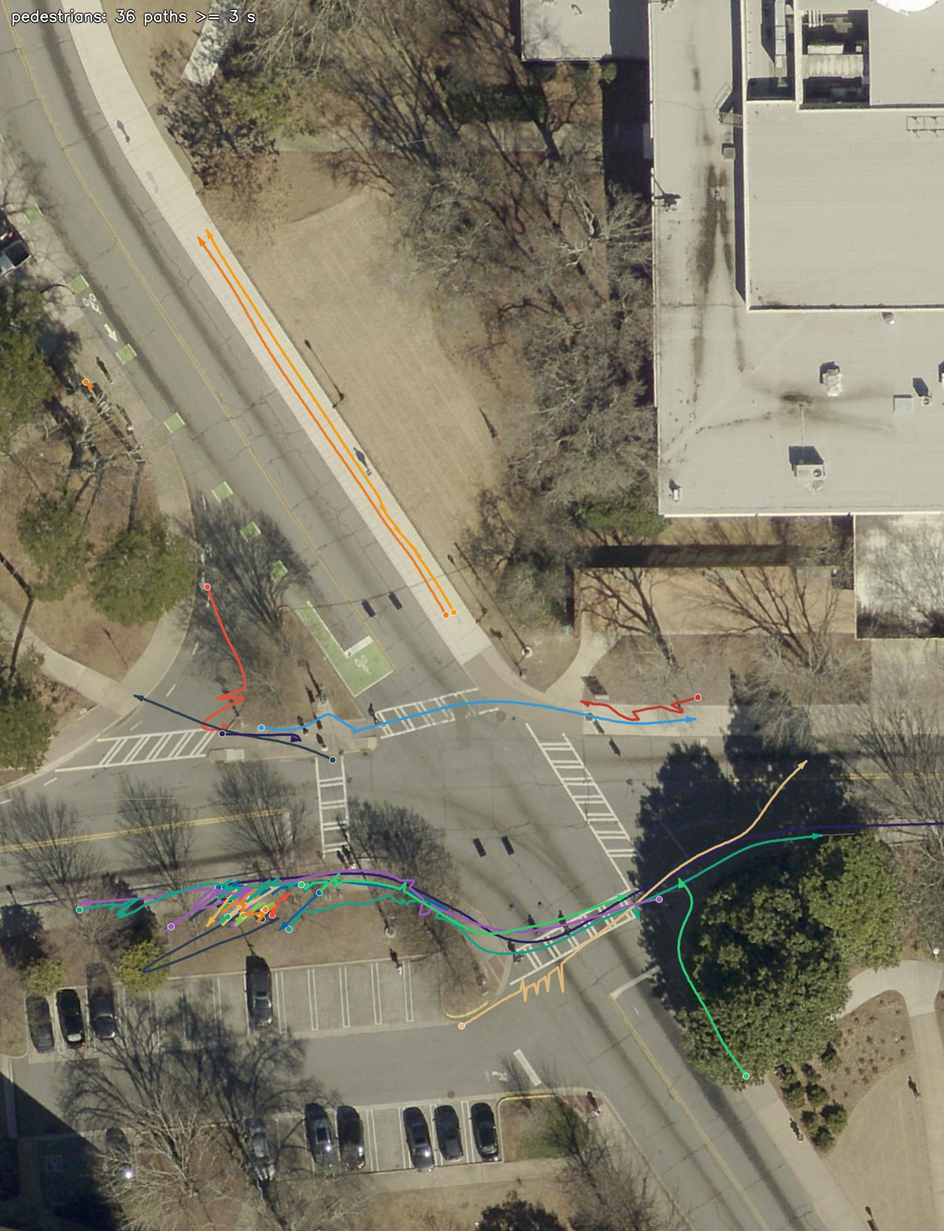
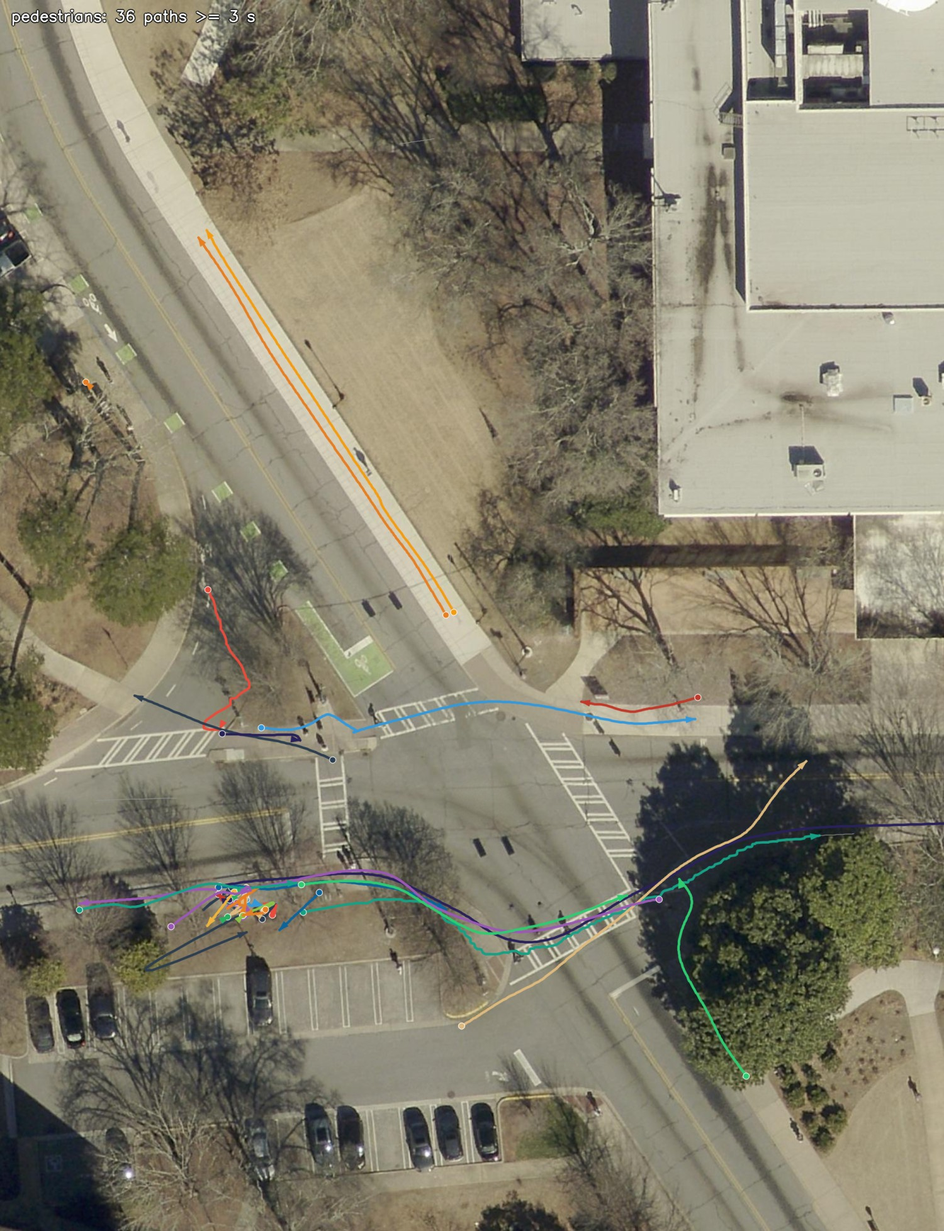
Decide centre or foot point once per track, and count what a vehicle cannot do
The centre guard that replaced a runaway centre with the foot point row
by row drew 489 direction reversals across 22 bus paths, where the
figures had none before it existed. The smoothed centre is smooth and
the measured foot point is not; any row-wise mix of the two inherits
the jumps. Hysteresis made the switch itself a jump, and a continuous
blend jumped whenever the foot point re-anchored on another part of the
car.

The decision is now made once per track. If more than 5% of a track's
rows have a centre more than three body-reaches from the median-smoothed
foot point, the smoother has lost that object: a vehicle is not drawn
at all (17 of 607 over 71 minutes), a pedestrian is drawn from the
smoothed foot point. Otherwise the whole track is drawn from the centre
and the rare runaway rows are dropped, which the path drawer turns into
a break rather than a line across the gap.

export_tracks.py now prints a plausibility count on every run: vehicle
paths with a reversal or a step over 30 m/s of real elapsed time. On 71
minutes it reads 0 and 0, the same as before any guard, with the
furthest point held at 63 m. The renderer uses the same function.

diff --git a/pipeline/export_tracks.py b/pipeline/export_tracks.py
@@ -132,22 +132,58 @@ def reach(cls):
     return 0.5 * math.hypot(L, W) + 0.3
 
 
-def centre_or_foot(r, cls, clamp):
-    """the solved centre, unless it has wandered further from its measurement than a body allows.
+def centre_or_foot(rows, cls, clamp, runaway_share=0.05):
+    """For one object's rows in frame order: where to draw it, or None for a row not to draw.
+    Returns [(e, n, fell_back) | None, ...].
 
-    fuse_tracks.py runs a Kalman smoother on the centre, and a smoother that loses its object does
-    not stop: on this recording one pedestrian's centre ends up 676 m away while its own foot point
-    never leaves a 60 m circle. Those are the trajectories that fly off across the roofs, and the
-    milder ones are what put a car on the footway. The foot point is the measured quantity and it
-    never does this, so when the two disagree by more than a body, the measurement wins.
+    Each row carries a measured foot point and a Kalman-smoothed centre. The centre is the better
+    position while the smoother is tracking its object, and a runaway when it is not: on this
+    recording one pedestrian's centre ends 676 m from a foot point that never left a 60 m circle.
+    The push, the distance between the two, tells them apart: a real centre cannot be further from
+    its foot point than the body allows, and every class's 99th-percentile push sits near one reach.
+
+    The decision is made once per track, never per row. Before any of this existed, the figures
+    drew the centre alone and had no reversal and no step over 30 m/s on 396 vehicle paths. Three
+    row-wise versions then each drew artefacts: a hard switch flipped a bus every frame (489
+    reversals), hysteresis made the switch itself a 6.8 m jump, and a continuous blend jumped
+    whenever the foot point it was blending toward re-anchored on another part of the car. The
+    centre is smooth and the foot point is not, and any row-wise mix of the two inherits the jumps.
+
+    So: if more than `runaway_share` of a track's rows have a push beyond `clamp` reaches, the
+    smoother has lost this object and the whole track is drawn from the median-smoothed foot
+    point. Otherwise the whole track is drawn from the centre, and the rare rows beyond the bound
+    are dropped, which the caller draws as a break in the line rather than a line across the gap.
     """
-    e, n = float(r["E"]), float(r["N"])
-    if not r.get("Ec"):
-        return e, n, False
-    ec, nc = float(r["Ec"]), float(r["Nc"])
-    if clamp > 0 and math.hypot(ec - e, nc - n) > clamp * reach(cls):
-        return e, n, True
-    return ec, nc, False
+    if not rows or clamp <= 0 or not rows[0].get("Ec"):
+        return [(float(r["E"]), float(r["N"]), False) for r in rows]
+    hi = clamp * reach(cls)
+    E = np.array([float(r["E"]) for r in rows]); N = np.array([float(r["N"]) for r in rows])
+    half = 2
+    Es = np.array([np.median(E[max(0, i - half):i + half + 1]) for i in range(len(E))])
+    Ns = np.array([np.median(N[max(0, i - half):i + half + 1]) for i in range(len(N))])
+    has = np.array([bool(r.get("Ec")) for r in rows])
+    Ec = np.array([float(r["Ec"]) if r.get("Ec") else np.nan for r in rows])
+    Nc = np.array([float(r["Nc"]) if r.get("Nc") else np.nan for r in rows])
+    push = np.where(has, np.hypot(Ec - Es, Nc - Ns), 0.0)
+    runaway = push > hi
+    if runaway.mean() > runaway_share:                               # the smoother lost this object
+        # For a vehicle there is nothing left to draw. The centre flies off, and the foot point on
+        # such a track jumps several metres in a frame too (eight of these were the last paths the
+        # plausibility check flagged, every one in this state). A vehicle is reported only when
+        # its smoothed position stayed with its measurement. A pedestrian's centre is its foot
+        # point give or take half a metre, so the smoothed foot point is a fair place to draw it.
+        if cls in VEHICLE:
+            return [None] * len(rows)
+        return [(float(Es[i]), float(Ns[i]), True) for i in range(len(rows))]
+    out = []
+    for i in range(len(rows)):
+        if not has[i]:
+            out.append((float(E[i]), float(N[i]), False))
+        elif runaway[i]:
+            out.append(None)                                         # a break, not a line
+        else:
+            out.append((float(Ec[i]), float(Nc[i]), False))
+    return out
 
 
 HEAD_M, HEAD_HALFW_M = 0.8, 0.26                                  # arrow head, metres on the ground
@@ -169,6 +205,36 @@ def arrow_head(img, a, b, col, res=0.04):
     back = np.array(b, float) - u * (HEAD_M / res)
     cv2.fillConvexPoly(img, np.array([b, back + n * (HEAD_HALFW_M / res),
                                       back - n * (HEAD_HALFW_M / res)], np.int32), col, cv2.LINE_AA)
+
+
+def plausibility(by_gid, fps, step_m=0.4):
+    """Count the things a vehicle cannot physically do, and say so before anyone looks at the figure.
+
+    A reversal is two consecutive steps, each longer than step_m, that turn by more than 120
+    degrees: a car that goes forward a metre and then straight back. Real traffic does this never;
+    a position that flips between two estimates does it every frame. The first version of the
+    centre clamp in this file did exactly that to 22 bus paths and nobody noticed until the figure
+    was already published, because nothing counted. Now something counts.
+    """
+    bad = []
+    for gid, os_ in by_gid.items():
+        if os_[0]["cls"] not in VEHICLE or len(os_) < 20:
+            continue
+        P = np.array([[o["E"], o["N"]] for o in os_])
+        T = np.array([o["t_sec"] for o in os_])
+        d = np.diff(P, axis=0)
+        L = np.hypot(*d.T)
+        dt = np.maximum(np.diff(T), 1.0 / fps)                            # a gap is real time, not one frame
+        rev = sum(1 for i in range(1, len(d))
+                  if L[i] > step_m and L[i - 1] > step_m and float(d[i] @ d[i - 1]) / (L[i] * L[i - 1]) < -0.5)
+        top = float(np.max(L / dt)) if len(L) else 0.0                   # fastest step, m/s over its real duration
+        if rev or top > 30:
+            bad.append((rev, top, gid, os_[0]["cls"]))
+    bad.sort(reverse=True)
+    print("plausibility: %d vehicle paths with a reversal or a step over 30 m/s" % len(bad))
+    for rev, top, gid, cls in bad[:8]:
+        print("   gid %-6d %-18s %3d reversals, fastest step %5.1f m/s" % (gid, cls, rev, top))
+    return len(bad)
 
 
 def pieces(os_, mpx, fps, gap_s=1.0):
@@ -207,9 +273,10 @@ def main():
     ap.add_argument("--max-disagree", type=float, default=2.0,
                     help="drop a fused row whose cameras disagree by more than this many linking "
                          "gates: they were not looking at one object. 0 disables")
-    ap.add_argument("--centre-clamp", type=float, default=1.0,
-                    help="reject a solved centre further than this many body-reaches from its own "
-                         "foot point and use the foot point instead; 0 disables the check")
+    ap.add_argument("--centre-clamp", type=float, default=3.0,
+                    help="a track with more than 5%% of its rows pushed beyond this many body-reaches "
+                         "from its own foot point is drawn from the smoothed foot point; on other "
+                         "tracks such rows are left out; 0 disables the check")
     a = ap.parse_args()
     os.makedirs(a.out, exist_ok=True)
 
@@ -248,18 +315,24 @@ def main():
         t0 = hh * 3600 + mm * 60 + ss
 
     cam_pts = camera_points(a.clipdir, a.cams.split(",")) if a.clipdir else {}
-    out_rows, summary, cut, dropped, clamped, split, emptied = [], [], 0, 0, 0, 0, 0
+    out_rows, summary, cut, dropped, clamped, split, emptied, lost_runaway = [], [], 0, 0, 0, 0, 0, 0
     for gid, rs in sorted(rows.items()):
         cls = rs[0]["cls"]
-        pts, kept_rs = [], []
-        for r in rs:
-            if cameras_disagree(r, cls, cam_pts, a.max_disagree):
-                split += 1
+        kept_rs = [r for r in rs if not cameras_disagree(r, cls, cam_pts, a.max_disagree)]
+        split += len(rs) - len(kept_rs)
+        placed = centre_or_foot(kept_rs, cls, a.centre_clamp)
+        if kept_rs and all(p is None for p in placed):              # a vehicle the smoother lost
+            lost_runaway += 1
+            continue
+        pts, rs2 = [], []
+        for r, pos in zip(kept_rs, placed):
+            if pos is None:                                          # a runaway row on a sound track
+                clamped += 1
                 continue
-            e, n, fell_back = centre_or_foot(r, cls, a.centre_clamp)
-            pts.append((int(r["frame"]), e, n))
-            kept_rs.append(r)
+            e, n, fell_back = pos
+            pts.append((int(r["frame"]), e, n)); rs2.append(r)
             clamped += fell_back
+        kept_rs = rs2
         if len(pts) < 2:
             emptied += 1
             continue
@@ -366,10 +439,12 @@ def main():
         cv2.imwrite(os.path.join(a.out, "trajectories_%s.png" % tag), img)
         print("%s: %d paths drawn" % (tag, drawn))
 
+    plausibility(by_gid, a.fps)
     print("%d objects, %d rows written; %d rows cut as standing, %d vehicles dropped as never "
-          "moving; %d diverged centres replaced by their foot point; %d rows dropped and %d objects "
-          "lost entirely because the cameras disagreed"
-          % (len(summary), len(out_rows), cut, dropped, clamped, split, emptied))
+          "moving; %d rows placed at or dropped for a runaway centre, %d vehicles not drawn because "
+          "their centre ran away; %d rows dropped and %d objects lost entirely because the cameras "
+          "disagreed"
+          % (len(summary), len(out_rows), cut, dropped, clamped, lost_runaway, split, emptied))
 
 
 if __name__ == "__main__":

diff --git a/pipeline/render_fused.py b/pipeline/render_fused.py
@@ -34,9 +34,9 @@ def main():
     ap.add_argument("--truth-objects", default=None, help="lidar_objects.csv: draw the road users the LiDAR saw (white = pedestrian, grey = vehicle cluster)")
     ap.add_argument("--rec-start", type=float, default=None, help="recording offset of the clip's first frame, s (needed with --truth)")
     ap.add_argument("--centre-offset", type=float, default=1.46)
-    ap.add_argument("--centre-clamp", type=float, default=1.0,
-                    help="same as export_tracks.py: reject a solved centre further than this many "
-                         "body-reaches from its own foot point; 0 disables the check")
+    ap.add_argument("--centre-clamp", type=float, default=3.0,
+                    help="same as export_tracks.py: a track with over 5%% of rows pushed beyond this many "
+                         "body-reaches is drawn from the smoothed foot point, other such rows are skipped")
     ap.add_argument("--bay-dirs", action="store_true",
                     help="a vehicle that never drives takes its direction from the parked cars around it in the aerial")
     ap.add_argument("--lot-file", default=None, help="a parking area drawn by hand (see "
@@ -60,15 +60,26 @@ def main():
     caps = {c: cv2.VideoCapture([os.path.join(a.clipdir, f) for f in os.listdir(a.clipdir) if f.startswith(c) and f.endswith(".mp4")][0]) for c in cams}
     fps = caps[cam_names[0]].get(cv2.CAP_PROP_FPS); fps_out = a.fps_out or fps / 2
     fused = defaultdict(list); hist = defaultdict(list); push = {}; gid_of = {}; centred = False; hdg_csv = {}; clamped = 0
+    # rows are grouped per object first: the centre-or-foot decision is made along a whole track with
+    # hysteresis (export_tracks.centre_or_foot), not row by row, so the map and the figures agree
+    by_gid = defaultdict(list)
     with open(os.path.join(a.clipdir, "fused.csv"), encoding="utf-8") as f:
-        for r in csv.DictReader(f):
-            # Ec/Nc = vehicle centre (fuse_tracks.py pushes each camera's foot point before averaging); older
-            # fused.csv files carry the foot point only and the push is done here at draw time
-            centred = "Ec" in r
-            fr, g = int(r["frame"]), int(r["gid"])
-            # the same guard export_tracks.py applies: a smoothed centre that has drifted further from
-            # its own foot point than a body is wide has lost its object, so the measurement wins
-            e, n, fell_back = ET.centre_or_foot(r, r["cls"], a.centre_clamp) if centred else (float(r["E"]), float(r["N"]), False)
+        for r in csv.DictReader(f): by_gid[int(r["gid"])].append(r)
+    for g, rs in by_gid.items():
+        rs.sort(key=lambda r: int(r["frame"]))
+        # Ec/Nc = vehicle centre (fuse_tracks.py pushes each camera's foot point before averaging); older
+        # fused.csv files carry the foot point only and the push is done here at draw time
+        centred = "Ec" in rs[0]
+        pos = ET.centre_or_foot(rs, rs[0]["cls"], a.centre_clamp) if centred else [(float(r["E"]), float(r["N"]), False) for r in rs]
+        if rs and all(p is None for p in pos):                            # a vehicle the smoother lost: not drawn at all
+            clamped += len(rs)
+            continue
+        for r, p in zip(rs, pos):
+            if p is None:                                                 # a runaway row: not drawn this frame
+                clamped += 1
+                continue
+            e, n, fell_back = p
+            fr = int(r["frame"])
             clamped += fell_back
             fused[fr].append(dict(gid=g, cls=r["cls"], e=e, n=n, cam=r["cam"], n_cams=int(r["n_cams"]))); hist[g].append((fr, e, n))
             for src in r.get("src", "").split("|"):                      # camera track -> global id, for the labels in the views

diff --git a/README.md b/README.md
@@ -13,7 +13,7 @@ measured against a survey-grade GNSS track and a lidar, not estimated.
 pedestrian, one identity each, wherever they are. The whole minute is in
 [`figures/fused_demo.mp4`](figures/fused_demo.mp4).*
 
-## 3,677 road users in 71 minutes
+## 3,627 road users in 71 minutes
 
 ![Vehicle paths over one minute](figures/1min_vehicles.jpg)
 
@@ -30,11 +30,11 @@ from the same afternoon. That recording is not in the repository, only its figur
 
 ![Vehicle paths over 71 minutes](figures/71min_vehicles.jpg)
 
-*356 vehicle paths. The lanes, the turning movements and the bus stops draw themselves.*
+*343 vehicle paths. The lanes, the turning movements and the bus stops draw themselves.*
 
 ![Pedestrian paths over 71 minutes](figures/71min_pedestrians.jpg)
 
-*1,948 pedestrian paths, drawn the same way. This is the point at which lines stop working.*
+*1,946 pedestrian paths, drawn the same way. This is the point at which lines stop working.*
 
 ![Pedestrian presence](figures/71min_density_pedestrians.jpg)
 
